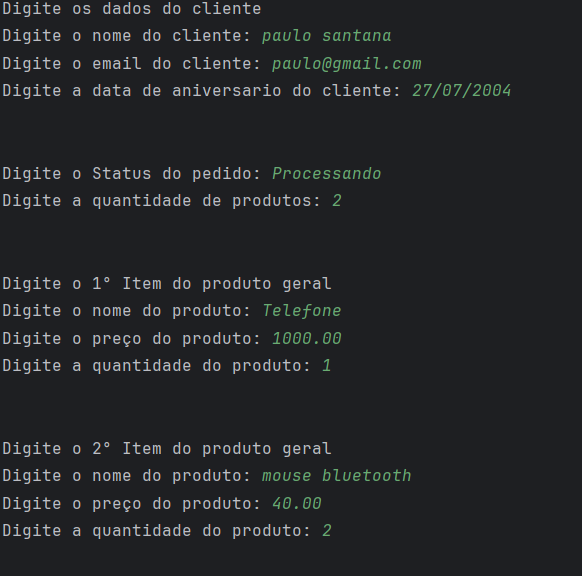
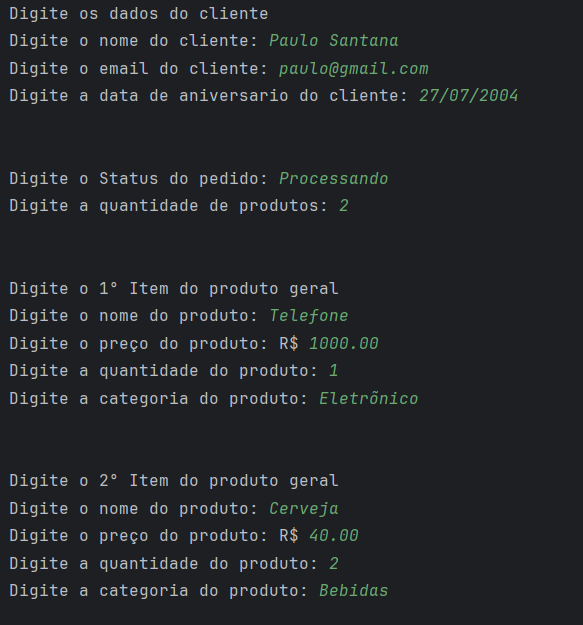
Updated image

diff --git a/Resolucao-projeto/src/entities/Order.java b/Resolucao-projeto/src/entities/Order.java
@@ -58,9 +58,6 @@ public class Order {
         return items;
     }
 
-    public void setItems(List<OrderItem> items){
-        this.items = items;
-    }
 
     public Product getProduct(){
         return product;
@@ -101,16 +98,21 @@ public class Order {
         sb.append("ORDER SUMMARY:" + "\n");
         sb.append("Order moment: " + momentoAtual + "\n");
         sb.append("OrderStatus :" + status + "\n");
-        sb.append("Client :" + client.getNomeCliente() + " - " + sdf.format(client.getDiaAniversarioCliente()) + " - " + client.getEmailCliente() + "\n");
+
+        sb.append("Client :"
+                + client.getNomeCliente() + " - "
+                + sdf.format(client.getDiaAniversarioCliente()) + " - "
+                + client.getEmailCliente() + "\n");
+
+        sb.append("\n");
 
         sb.append("Order items:" + "\n");
-        for(OrderItem x : items){
-            sb.append(x.getProduct().getNomeProduto() + " - $"
-                    + x.getProduct().getPrecoProduto() + ", Quantidade - "
-                    + ", indentificação do produto - " + x.getProductIndenfication().idProduto
-                    + ", categoria do produto - " +  x.getProductIndenfication().getCategoriaProduto()
-                    + x.getQuantidadeItem() + ", subtotal - $"
-                    + x.subTotalItem() + "\n");
+        for(OrderItem entidade : items){
+            sb.append("Nome do produto: " + entidade.getProduct().getNomeProduto() + "\n" +
+            "Preço do produto: " + entidade.getProduct().getPrecoProduto() + "\n" +
+            "Indetificação do produto: " + entidade.getProductIndenfication().idProduto + "\n" +
+            "Categoria do produto: " + entidade.getProductIndenfication().getCategoriaProduto() + "\n" +
+            "Subtotal: " + entidade.subTotalItem() + "\n" + "\n");
         }
 
         sb.append("\n");

diff --git a/Resolucao-projeto/src/Main.java b/Resolucao-projeto/src/Main.java
@@ -53,6 +53,7 @@ public class Main {
         //input dados list item
 
         int quantidadeLinha = 1;
+        int quantidadeEspaco = 0;
         for(int line = 0;line < quantProd; line++){
 
             System.out.println("\n");
@@ -60,7 +61,12 @@ public class Main {
             System.out.println("Digite o " + quantidadeLinha + "° Item do produto geral");
 
             System.out.print("Digite o nome do produto: ");
-            sc.nextLine();
+
+            if(quantidadeEspaco == 0){
+                sc.nextLine();
+                quantidadeEspaco ++;
+            }
+
             String nome = sc.nextLine();
 
             System.out.print("Digite o preço do produto: R$ ");

diff --git a/README.md b/README.md
@@ -35,11 +35,11 @@ Requisitos de entrada do projeto deve solicitar ao usuário os seguintes campos:
 
 **Dados do item**: 'Nome', 'Preço' e 'Quantidade'
 
-![Features01 drawio](/Imagens/Input_codigo.png)
+![Input_codigo.png](Imagens%2FInput_codigo.png)
 
 ## Output_codigo
 Nota: Recomendação para a otimização do codigo utilize a classe: **StringBuilder()**
 
 A saida final do código deve ser dessa seguinte forma:
 
-![Features01 drawio](/Imagens/Output_codigo.png)
+![Output_codigo.png](Imagens%2FOutput_codigo.png)
